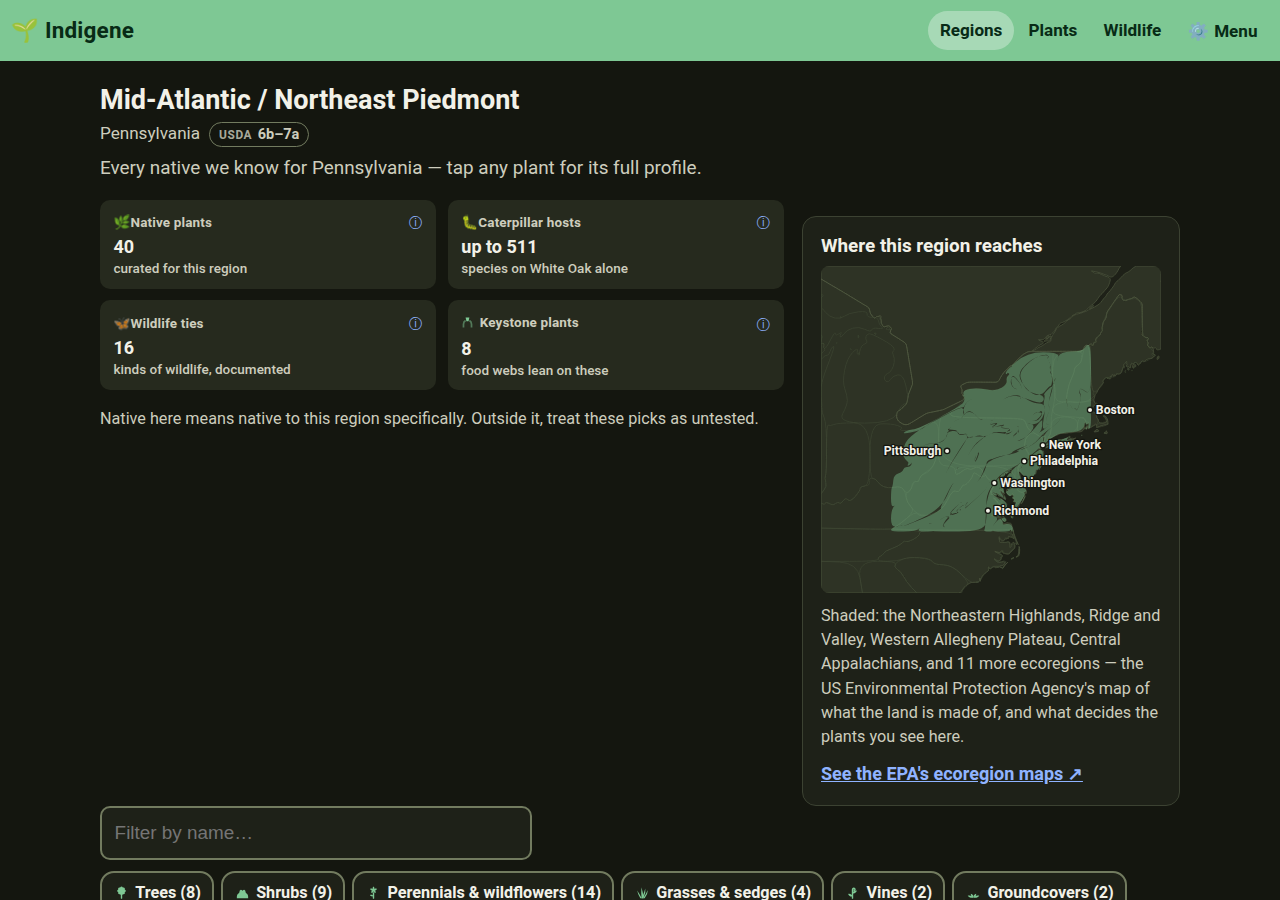
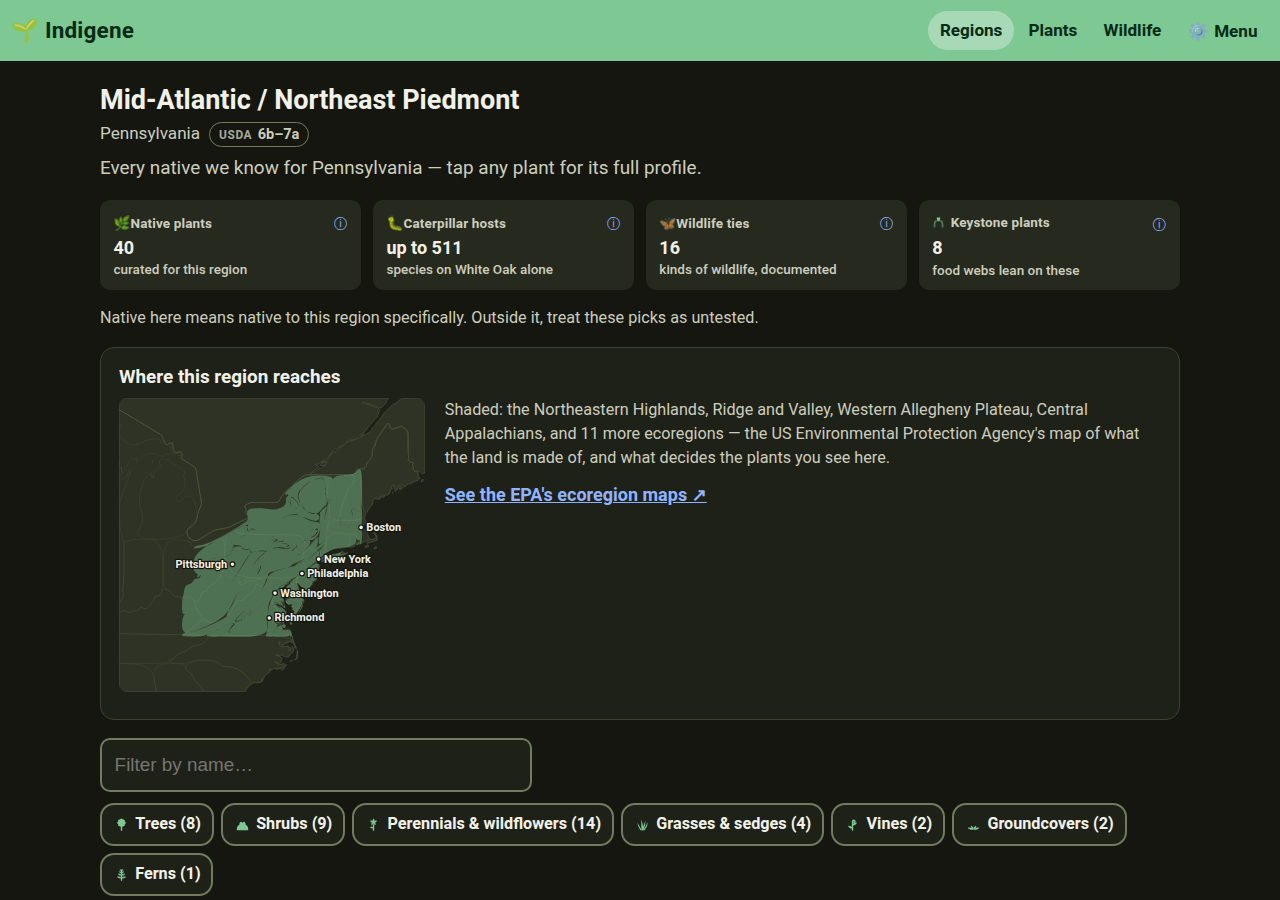
Let the caption flow round the map instead of tiling badly beside it
The desktop layout was broken and looked it. Four attempts, written down
because the failures are the argument for where it ended up:

1. Cap the map's width — a small picture marooned in a full-width card.
2. Put the card in a column beside the stats — a hole the height of the map,
   because the card is twice the stats' height.
3. Stretch the tiles to close the hole — four big boxes with a line of text
   floating in the middle of each.
4. Lay the card out as a rigid two-column grid — the caption stranded in the
   middle of its own column.

What works is the old magazine answer: past 52rem the map floats left at 17rem,
and the caption and its source link set beside it and wrap underneath if they
run long. The card is as tall as its contents, the stats keep their four-across
row, and nothing is stretched or stranded.

Rebased onto main, which brought the 50-word ceiling on published changelog
bullets — all three of mine were essays and are now inside it. #110 had also
merged its screenshots into docs/screenshots/pr-110, which my folder rename
would have deleted; they are restored and mine live in pr-111.

Claude-Session: https://claude.ai/code/session_01XJ6TFx2TbgANrTkzLpHqM1

Changed region(s): [[0.0625, 0.2178, 0.9062, 0.7778], [0.0625, 0.6533, 0.9062, 1.0], [0.0938, 0.2178, 0.1875, 0.3111]]

diff --git a/app/src/styles.css b/app/src/styles.css
@@ -3782,24 +3782,33 @@ body[data-layout="profile"] .wip-banner-text {
    nothing is stretched and nothing is stranded. `align-items: start` keeps the
    map card its natural height instead of stretching it to match the stats. */
 @media (min-width: 52rem) {
-  .region-head {
-    display: grid;
-    grid-template-columns: minmax(0, 1fr) minmax(17rem, 21rem);
-    gap: 1rem;
-    align-items: start;
+  /* The map card lies down instead of standing up, and the caption flows round
+     it.
+
+     Three earlier tries got this wrong. Capping the map's width left a small
+     picture marooned in a full-width card. Putting the card in a column beside
+     the stats left a hole the height of the map, because the card is twice the
+     stats' height. Stretching the tiles to close that hole made four big boxes
+     with a line of text floating in each. And laying the card out as a rigid
+     two-column grid stranded the caption in the middle of its own column.
+
+     A float is the old answer and the right one: the map takes the left of the
+     card at a fixed, sensible size, the caption and its source link set beside
+     it and wrap underneath if they run long. Nothing is stretched, nothing is
+     stranded, and the card is as tall as its own contents. */
+  .region-where::after {
+    content: "";
+    display: block;
+    clear: both;
   }
-  /* Four tiles across a narrowed column would be four cramped words, so the
-     glance block squares up to 2×2 beside the map. */
-  .region-head .stat-grid {
-    grid-template-columns: repeat(2, minmax(0, 1fr));
-    margin-top: 0;
-  }
-  .region-head .region-where {
-    margin: 0.85rem 0 0;
-  }
-  /* Its column is already the cap. */
   .region-map {
-    max-width: none;
+    float: left;
+    width: 17rem;
+    max-width: 40%;
+    margin: 0 1.1rem 0.5rem 0;
+  }
+  .region-map-legend {
+    margin: 0 0 0.6rem;
   }
 }
 .region-map-legend {
